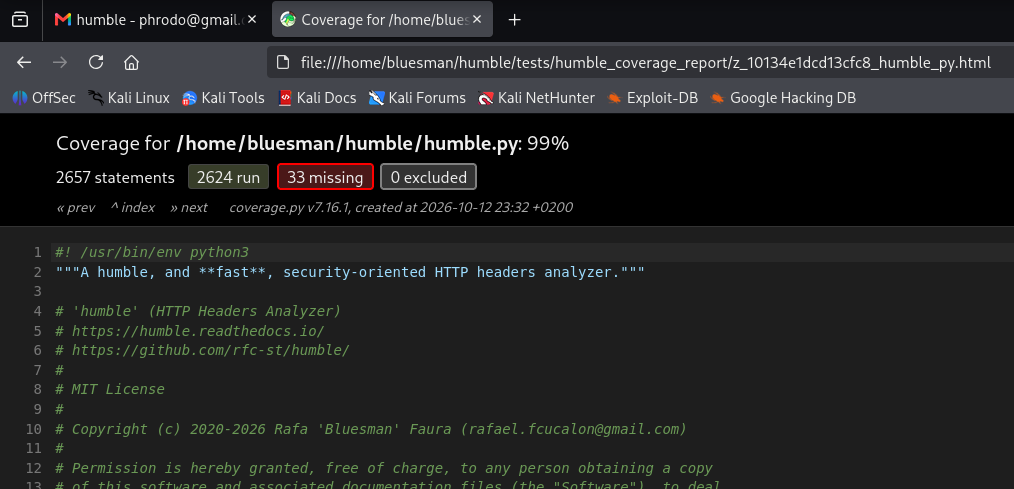
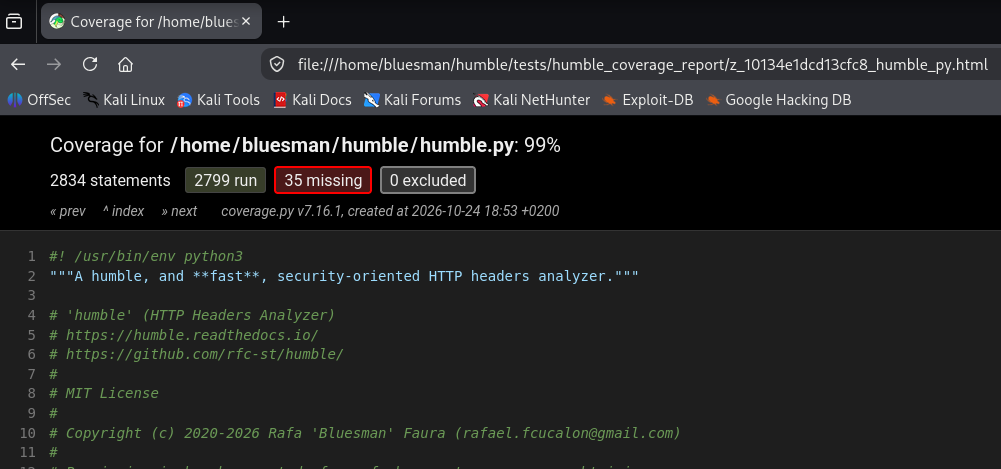
Feature: 1 new insecure check
Content-Security-Policy: Unquoted Keywords

Changed region(s): [[0.0, 0.1791, 1.0, 0.597], [0.0, 0.6269, 0.7123, 1.0], [0.0, 0.0, 1.0, 0.1493]]

diff --git a/humble.py b/humble.py
@@ -235,20 +235,16 @@ RE_PATTERN = (
     (r"\.\./|/\.\.|\\\.\.|\\\.\\|"
      r"%2e%2e%2f|%252e%252e%252f|%c0%ae%c0%ae%c0%af|"
      r"%uff0e%uff0e%u2215|%uff0e%uff0e%u2216"),
-    r"\(([^)]+)\)",
-    r"\d{4}-\d{2}-\d{2}", r"(?m)^\[(.*?)\]\n", r"'nonce-([^']+)'",
-    r"\(humble_pdf_style\)([^:]+):",
+    r"\(([^)]+)\)", r"\d{4}-\d{2}-\d{2}", r"(?m)^\[(.*?)\]\n",
+    r"'(?i:nonce)-([^']+)'",  r"\(humble_pdf_style\)([^:]+):",
     r'<meta\s+http-equiv=["\'](.*?)["\']\s+content=["\'](.*?)["\']\s*/?>',
     r"\(humble_sec_style\)([^:]+)", r"\(humble_sec_style\)",
     r"(?: Nota : | Note : )", r"^[0-9a-fA-F]+$", r"^[A-Za-z0-9+/=_-]+$",
-    r", (?=[^;,]+?=)", r"'nonce-[^']+'", r"(^|[\s;])({dir})($|[\s;])",
+    r", (?=[^;,]+?=)", r"'(?i:nonce)-[^']+'", r"(^|[\s;])({dir})($|[\s;])",
     r"'(?i:(sha256|sha384|sha512))-([A-Za-z0-9+/=_-]+)'",
     r"(?<!')\b(?i:sha256|sha384|sha512)-[A-Za-z0-9+/=_-]+(?!')",
-    r"^([a-zA-Z0-9\-]+)",
-    r"\s{2,},",
-    r"^(.*?):\s+(\d+)\s+\((.*?)\)$",
-    r"<pre(?:\s[^>]*)?>\s*</pre>",
-    r"(?<!')nonce-",
+    r"^([a-zA-Z0-9\-]+)", r"\s{2,},", r"^(.*?):\s+(\d+)\s+\((.*?)\)$",
+    r"<pre(?:\s[^>]*)?>\s*</pre>", r"(?<!')(?i:nonce)-",
     r"(^[^\S\n]*\n)(?:[^\S\n]*(?:\n|$))+", r'^[^",]*(?:"[^"]*"[^",]*)*',
 )
 
@@ -1138,15 +1134,22 @@ def csp_analyze_content(csp_h, csp_dirs_vals, csp_dirs):
 
 
 def csp_check_values(csp_h, csp_dirs, csp_values):
-    """`Content-Security-Policy` header checks related to its values."""
+    """`Content-Security-Policy` header checks related to its values.
+
+    Directives and keywords are case-insensitive, so they are checked on the
+    lowercased header; nonces and hashes are Base64, so they keep their case.
+    """
     if "upgrade-insecure-requests" in csp_dirs \
             and "strict-transport-security" not in headers_l:
         print_details("[icspi_h]", "[icspi]", "m", i_cnt)
-    csp_check_unknown(csp_h)
+    csp_check_unknown(csp_h.lower())
     if "'unsafe-hashes'" in csp_values:
         print_details("[icsu_h]", "[icsu]", "d", i_cnt)
+    if unquoted := sorted(csp_values.intersection(t_csp_keywords)):
+        print_matched_details("[icskq_h]", "[icskq_s]", ", ".join(
+            f"'{keyword}'" for keyword in unquoted), "[icskq]")
     csp_check_hashes(csp_h)
-    if "nonce-" in csp_h:
+    if "nonce-" in csp_h.lower():
         csp_check_nonces(csp_h)
     if re.search(RE_PATTERN[1], csp_h):
         csp_check_ip(csp_h)
@@ -5201,6 +5204,12 @@ t_csp_dirs = ("base-uri", "child-src", "connect-src", "default-src",
 RE_CSP_DIRS = re.compile(
     RE_PATTERN[16].format(dir="|".join(map(re.escape, t_csp_dirs))))
 t_csp_insecs = ("http:", "ws:")
+# https://www.w3.org/TR/CSP3/#grammardef-keyword-source
+t_csp_keywords = ("none", "report-sample", "report-sha256", "report-sha384",
+                  "report-sha512", "self", "strict-dynamic",
+                  "trusted-types-eval", "unsafe-allow-redirects",
+                  "unsafe-eval", "unsafe-hashes", "unsafe-inline",
+                  "unsafe-webtransport-hashes", "wasm-unsafe-eval")
 t_csp_miss = ("base-uri", "child-src", "connect-src", "default-src",
               "font-src", "form-action", "frame-ancestors", "img-src",
               "object-src", "require-trusted-types-for", "script-src",
@@ -5491,11 +5500,11 @@ if header_eligible("content-encoding") \
 
 if header_eligible("content-security-policy"):
     csp_h = headers_l["content-security-policy"]
-    csp_dirs_vals = [directive.split() for directive in csp_h.split(";")
+    csp_dirs_vals = [directive.split() for directive in csp_h.lower().split(";")
                      if directive.strip()]
     csp_dirs = {name for name, *_ in csp_dirs_vals}
     csp_values = {value for _, *values in csp_dirs_vals for value in values}
-    csp_analyze_content(csp_h, csp_dirs_vals, csp_dirs)
+    csp_analyze_content(csp_h.lower(), csp_dirs_vals, csp_dirs)
     csp_check_values(csp_h, csp_dirs, csp_values)
 
 # https://www.w3.org/TR/CSP3/#meta-element

diff --git a/tests/test_humble.py b/tests/test_humble.py
@@ -63,7 +63,7 @@ EXTENDED_TAGS = ["[test_python_version]", "[test_missing_arguments]",
                  "[test_proxy_wrong]", "[test_response_headers_none]",
                  "[test_cache_no_store]", "[test_case_insensitive_values]",
                  "[test_csp_fallback_present]", "[test_csp_tokens]",
-                 "[test_csp_base64url_nonce]",
+                 "[test_csp_keywords]", "[test_csp_base64url_nonce]",
                  "[test_permissions_format]", "[test_permissions_values]",
                  "[test_cors_origin]", "[test_unreliable_analysis]",
                  "[test_export_csv_brackets]", "[test_export_json_brackets]",
@@ -100,6 +100,7 @@ HUMBLE_TEST_FILES = {
     "CSP_BASE64URL_NONCE": "headers_test_csp_base64url_nonce.txt",
     "CSP_HEX_NONCE": "headers_test_csp_hex_nonce.txt",
     "CSP_STRICT_DYNAMIC": "headers_test_csp_strict_dynamic.txt",
+    "CSP_KEYWORDS": "headers_test_csp_keywords.txt",
     "CSP_TOKENS": "headers_test_csp_tokens.txt",
     "CORS_ORIGIN": "headers_test_cors_origin.txt",
     "CSP_UNSAFE_INLINE": "headers_test_csp_unsafe_inline.txt",
@@ -1037,6 +1038,27 @@ def test_csp_tokens():
     assert "(Deprecated Directives)" not in output
     assert "(Insecure Schemes)" not in output
     assert "(Unsafe Directive)" not in output
+
+
+def test_csp_keywords():
+    """Verify CSP keywords are matched case-insensitively and quoted."""
+    result = subprocess.run(
+        [sys.executable, HUMBLE_MAIN_FILE, "-u", TEST_URLS[2], "-if",
+         PATHS["CSP_KEYWORDS"]],
+        capture_output=True,
+        text=True,
+        timeout=15,
+        encoding="utf-8",
+        errors="replace",
+        check=False,
+    )
+    output = result.stdout + result.stderr
+    assert "(Unsafe Eval)" in output
+    assert "(Unsafe Nonce)" in output
+    assert "(Unquoted Keywords)" in output
+    assert "'self', 'strict-dynamic'" in output
+    assert "(Unknown Directive)" not in output
+    assert "('default-src' Directive Missing)" not in output
 
 
 def test_csp_base64url_nonce(tmp_path):

diff --git a/README.md b/README.md
@@ -72,8 +72,8 @@
 :heavy_check_mark: Covers 65 [enabled](#checks-enabled-headers) security-related HTTP response headers.<br />
 :heavy_check_mark: 15 [checks](#checks-missing-headers) for missing security-related HTTP response headers (the ones I consider essential).<br />
 :heavy_check_mark: 1289 [checks](#checks-fingerprint-headers) for fingerprinting through HTTP response headers.<br />
-:heavy_check_mark: 176 [checks](#checks-deprecated-headersprotocols-and-insecure-values) for deprecated HTTP response headers/protocols or with insecure/wrong values.<br />
-:heavy_check_mark: 30 [checks](https://github.com/rfc-st/humble/blob/master/additional/insecure.txt#L56-L85) related to Content Security Policy [Level 3](https://www.w3.org/TR/CSP3/).<br />
+:heavy_check_mark: 177 [checks](#checks-deprecated-headersprotocols-and-insecure-values) for deprecated HTTP response headers/protocols or with insecure/wrong values.<br />
+:heavy_check_mark: 31 [checks](https://github.com/rfc-st/humble/blob/master/additional/insecure.txt#L57-L87) related to Content Security Policy [Level 3](https://www.w3.org/TR/CSP3/).<br />
 :heavy_check_mark: Can check for compliance with the OWASP <a href="https://secure-headers-project.owasp.org/best-practices/#configuration-proposal" target="_blank">Secure Headers Project</a> Best Practices.<br />
 :heavy_check_mark: Can exclude specific HTTP response headers from the analysis.<br />
 :heavy_check_mark: Can analyze <a href="https://curl.se/docs/manpage.html#-D" target="_blank">raw response</a> and <a href="https://w3c.github.io/web-performance/specs/HAR/Overview.html" target="_blank">HAR</a> files.<br />
@@ -93,7 +93,7 @@
 :heavy_check_mark: Can display guidelines for enabling security HTTP response headers on popular frameworks, servers, and services.<br />
 :heavy_check_mark: Can exclude HTTP response headers across all analyses via [humble.skip](#global-humbleskip) file.<br />
 :heavy_check_mark: [AI](#AI)-driven security triage and remediation guidance.<br />
-:heavy_check_mark: Includes over 150 [unit tests](#unit-tests) to help verify it works correctly in your environment; requires <a href="https://pypi.org/project/pytest/" target="_blank">pytest</a> and <a href="https://pypi.org/project/pytest-cov/">pytest-cov</a>.<br />
+:heavy_check_mark: Includes over 160 [unit tests](#unit-tests) to help verify it works correctly in your environment; requires <a href="https://pypi.org/project/pytest/" target="_blank">pytest</a> and <a href="https://pypi.org/project/pytest-cov/">pytest-cov</a>.<br />
 :heavy_check_mark: Classes and functions documented at <a href="https://humble.readthedocs.io/en/latest/" target="_blank">Read the Docs</a>.<br />
 :heavy_check_mark: Code regularly audited with several quality, style and security [tools](#quality-style-and-security-tools).<br />
 :heavy_check_mark: Tested, one by one, on thousands of URLs.<br />

diff --git a/docs/index.md b/docs/index.md
@@ -26,7 +26,7 @@ Rafa *'Bluesman'* Faura Cucalón; you can read about me on <a href="https://www.
 - Covers 65 <a href="https://github.com/rfc-st/humble/#checks-enabled-headers" target="_blank">enabled</a> security-related HTTP response headers.
 - 15 <a href="https://github.com/rfc-st/humble/#checks-missing-headers" target="_blank">checks</a> for missing security-related HTTP response headers.
 - 1289 <a href="https://github.com/rfc-st/humble/#checks-fingerprint-headers" target="_blank">checks</a> for fingerprinting through HTTP response headers.
-- 176 <a href="https://github.com/rfc-st/humble/#checks-deprecated-headersprotocols-and-insecure-values" target="_blank">checks</a> for deprecated HTTP response headers/protocols or with insecure/wrong values.
+- 177 <a href="https://github.com/rfc-st/humble/#checks-deprecated-headersprotocols-and-insecure-values" target="_blank">checks</a> for deprecated HTTP response headers/protocols or with insecure/wrong values.
 - 30 <a href="https://github.com/rfc-st/humble/blob/master/additional/insecure.txt#L56-L85" target="_blank">checks</a> related to Content Security Policy <a href="https://www.w3.org/TR/CSP3/" target="_blank">Level 3</a>.
 - Can check for compliance with the OWASP <a href="https://secure-headers-project.owasp.org/best-practices/#configuration-proposal" target="_blank">Secure Headers Project</a> Best Practices.
 - Can exclude specific HTTP response headers from the analysis.
@@ -46,7 +46,7 @@ Rafa *'Bluesman'* Faura Cucalón; you can read about me on <a href="https://www.
 - Can display fingerprint statistics for a specific term or the Top 20.
 - Can display guidelines for enabling security HTTP response headers on popular frameworks, servers, and services.
 - <a href="https://github.com/rfc-st/humble/#AI" target="_blank">AI</a>-driven security triage and remediation guidance.
-- Includes over 150 <a href="https://github.com/rfc-st/humble/#unit-tests" target="_blank">unit tests</a> to help verify it works correctly in your environment; requires <a href="https://pypi.org/project/pytest/" target="_blank">pytest</a> and <a href="https://pypi.org/project/pytest-cov/">pytest-cov</a>.
+- Includes over 160 <a href="https://github.com/rfc-st/humble/#unit-tests" target="_blank">unit tests</a> to help verify it works correctly in your environment; requires <a href="https://pypi.org/project/pytest/" target="_blank">pytest</a> and <a href="https://pypi.org/project/pytest-cov/">pytest-cov</a>.
 - Code regularly audited with several quality, style and security <a href="https://github.com/rfc-st/humble/?tab=readme-ov-file#quality-style-and-security-tools" target="_blank">tools</a>.<br />
 - Tested, one by one, on thousands of URLs.
 - Tested on Docker 26.1, Kali Linux 2021.1, macOS 14.2.1 and Windows 10 20H2.
